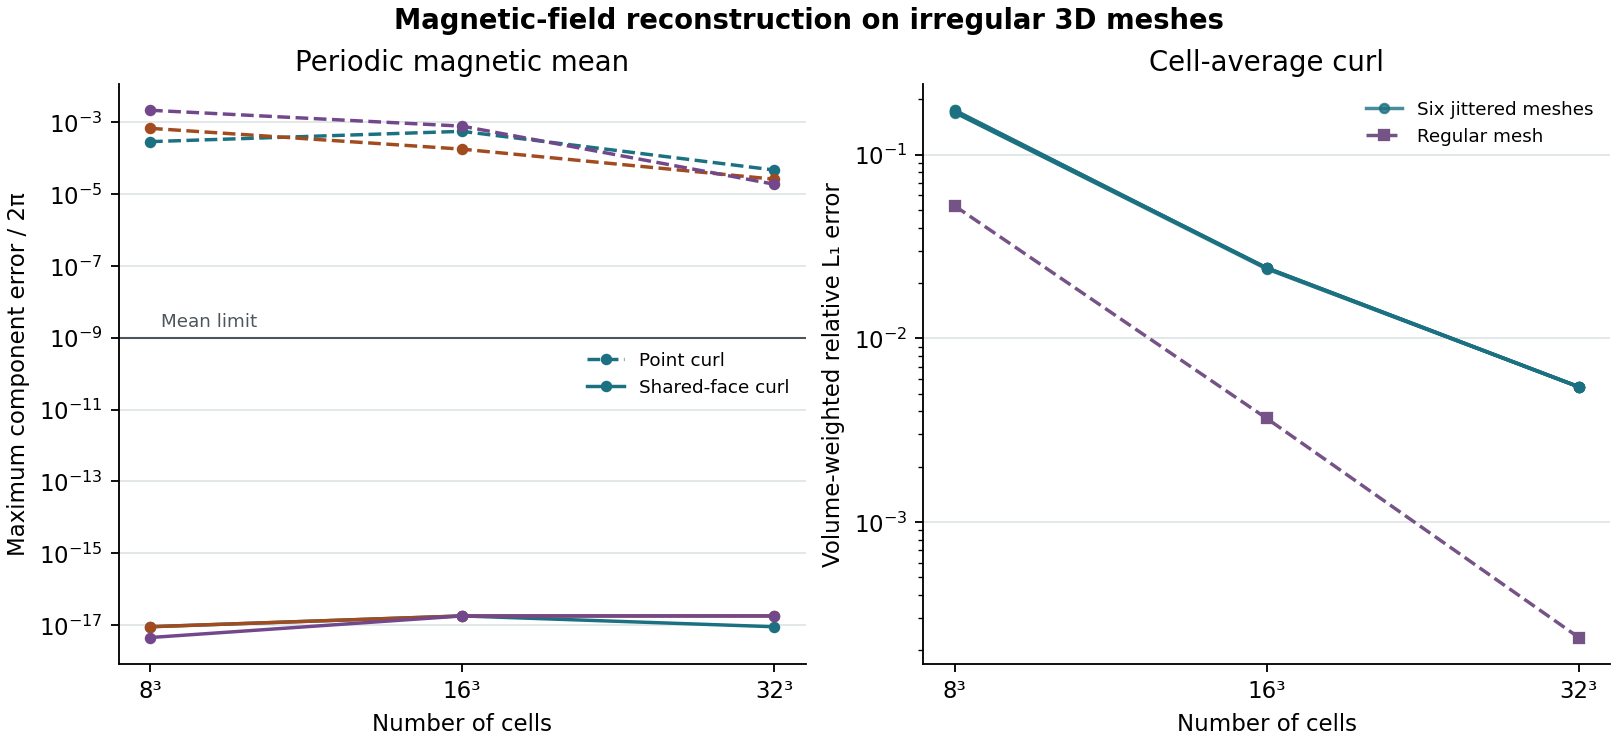
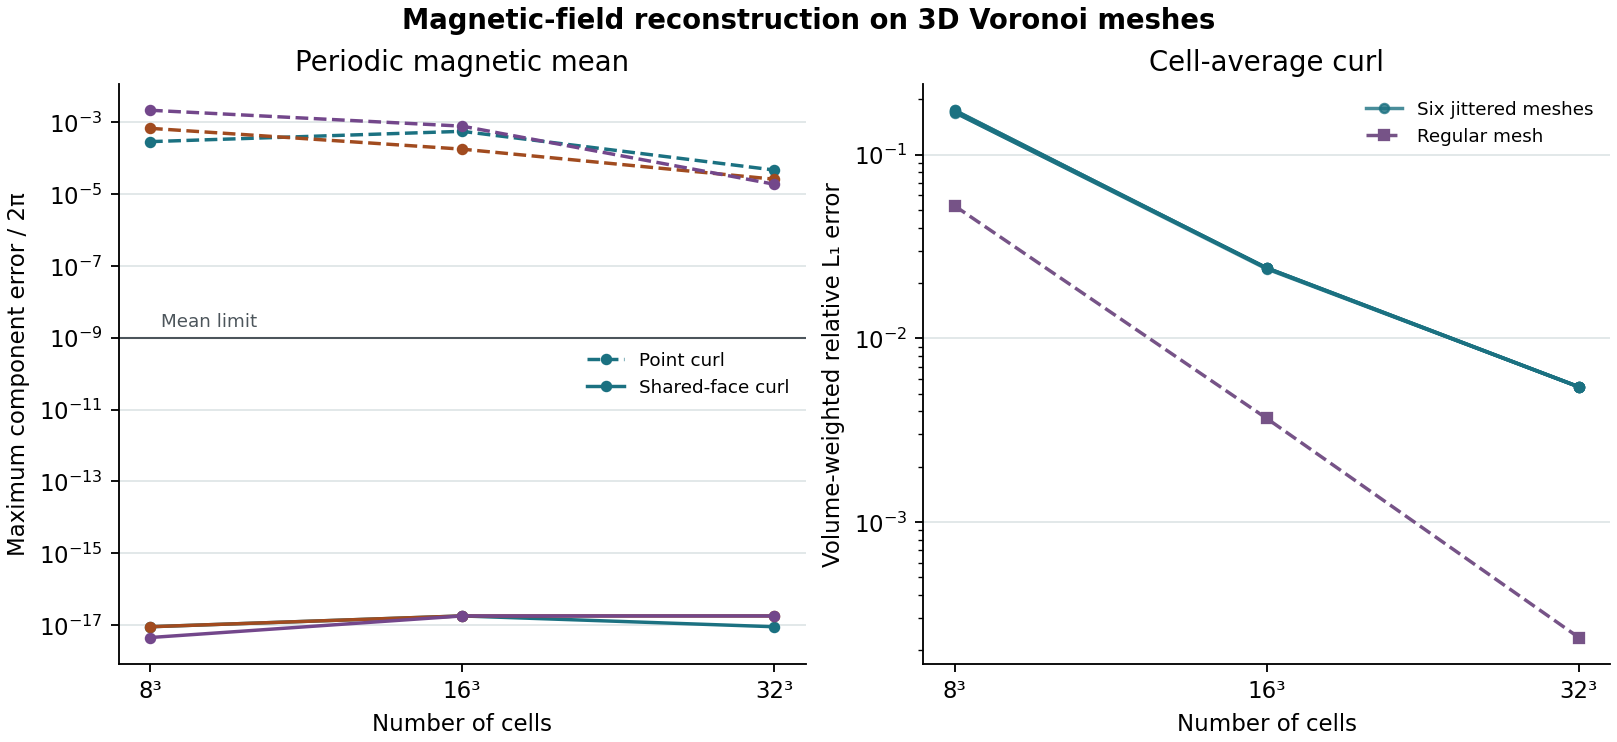
Document the cubic cancellation and independently replay moving face and sample derivatives

Changed region(s): [[0.2474, 0.0, 0.773, 0.062]]

diff --git a/scripts/review_m2c_shared_motion.py b/scripts/review_m2c_shared_motion.py
@@ -1,0 +1,137 @@
+"""Reconstruct moving-face differences and topology masks from actual native workflow outputs."""
+import argparse
+import json
+import math
+import re
+import struct
+from pathlib import Path
+
+import numpy as np
+from review_m2c_centroid import identity, read_packet, receipt, require
+
+GROUPS=("field","transported","area","center","cov0","cov1","cov2")
+POWERS=range(7,14)
+CONTROLS=("periodic_mean_adjoint_and_constants","rigid_self_faces_and_degenerate_nonrigid_vertex")
+
+
+def observations(text, power):
+    sides={k:[{}, {}, {}] for k in ("FACE","STENCIL")}
+    arrays={k:{} for k in GROUPS}
+    native={}
+    branch=quality=transport=None
+    for line in text.splitlines():
+        line=line.split(" ... ")[-1]
+        head,_,after=line.partition(" ")
+        if head in sides:
+            stage,i,words=after.split(" ",2);dest=sides[head][int(stage)]
+            require(int(i) not in dest,"duplicate support")
+            dest[int(i)]=words
+        elif head=="BRANCH":
+            exp,branch=after.split();require(int(exp)==power,"branch exponent")
+        elif head=="ENDPOINT":
+            key,i,k,lo,hi,rate=after.split();word=(int(i),int(k))
+            require(word not in arrays[key],"duplicate endpoint")
+            arrays[key][word]=tuple(map(float,(lo,hi,rate)))
+        elif head=="DIFF":
+            exp,key,err,spacing=after.split()
+            require(int(exp)==power and key not in native,"difference exponent")
+            native[key]=tuple(map(float,(err,spacing)))
+        elif head=="QUALITY":quality=float(after)
+        elif head=="TRANSPORT":transport=float(after)
+    require(all(len(x)==27 for x in sides["STENCIL"]) and all(len(x)>0 for x in sides["FACE"]),"retained geometry")
+    eligible=all(v[0]==v[1]==v[2] for v in sides.values())
+    require(branch==("matched" if eligible else "switched"),"observed branch and retained supports")
+    info=dict(denominator=2**power,matched=eligible,faces=[len(x) for x in sides["FACE"]])
+    if not eligible:
+        require(not native and not any(arrays.values()),"difference across topology switch")
+        return info,{}
+    require(set(native)==set(GROUPS) and quality is not None and quality>1e-10 and transport is not None and transport>1e-3,"smooth geometry and sample sensitivity")
+    derivatives={};stats={}
+    for key in GROUPS:
+        n=27 if key in ("field","transported") else info["faces"][1]
+        require(arrays[key].keys()=={(i,k) for i in range(n) for k in range(3)},key+" complete endpoint words")
+        rows=np.array([arrays[key][k] for k in sorted(arrays[key])])
+        require(np.isfinite(rows).all(),key+" finite words")
+        lo,hi,rate=rows.T
+        derivative=(hi-lo)*2**(power-1)
+        scale=max(1,float(np.max(abs(rate))))
+        err=float(np.max(abs(derivative-rate)))/scale
+        spacing=float(np.max(np.spacing(abs(lo))+np.spacing(abs(hi))))*2**(power-1)/scale
+        require(np.allclose((err,spacing),native[key],rtol=1e-12,atol=1e-18),key+" independent difference")
+        stats[key]=dict(error=err,endpoint_spacing=spacing,scale=scale,components=len(rate))
+        derivatives[key]=derivative
+    info.update(quantities=stats,min_vertex_determinant=quality,transported_sample_response=transport)
+    return info,derivatives
+
+
+def review(path):
+    f=read_packet(path);release=json.loads(f["release.json"])
+    source=release["source_revision"];build=json.loads(f["build/build.json"]);uid,pins,outs,_=receipt(f,"build",release["build_name"])
+    for k,pin in outs.items():require(identity(f["build/"+k.rsplit("/",1)[-1]])==pin,k)
+    binary=identity(f["build/face-motion-tests"])
+    require(build["source_revision"]==source and release["build_uuid"]==uid and
+            binary["sha256"]==build["executables"]["face-motion-tests"]["sha256"] and
+            build["runtime_sha256"]==identity(f["build/runtime.json"])["sha256"],"linked native build")
+    for i,step in enumerate(build["commands"]):
+        require(step["returncode"]==0 and identity(f[f"build/build-{i}.log"])["sha256"]==step["sha256"],"build steps")
+    require([c["argv"][1] for c in build["commands"]]==["fmt","clippy","build","test"],"build actions")
+    snapshot=json.loads(f["build/snapshot.json"])
+    require(identity(f["build/snapshot.json"])==pins["snapshot.json"] and snapshot["source_revision"]==source and
+            all(pins[n]["sha256"]==v for n,v in snapshot["upload_sha256"].items()),"original snapshot")
+    for k in (k for k in f if k.startswith("source/")):
+        require(identity(f[k])["sha256"]==snapshot["source_sha256"][k.removeprefix("source/")],k)
+    points=json.loads(f["source/docs/galaxy/fixtures/m2c_shared_face_static_v1.json"])["generators"]["jitter"]
+    words=f["source/crates/mhd-vector-pot/tests/fixtures/m2c_shared_jitter.bits"].decode().splitlines()
+    require(len(points)==27 and words==[" ".join(struct.pack(">d",float.fromhex(v)).hex() for v in xyz) for xyz in points],"all 81 fixture words")
+    sels={f"h{2**p}" for p in POWERS}|set(CONTROLS)
+    require(set(build["selectors"])==set(release["names"])==sels,"exact controls")
+    levels=[];diffs=[];ids=set();controls={}
+    for sel,name in sorted(release["names"].items()):
+        prefix="cases/"+sel;get=lambda n:f[prefix+"/"+n]
+        case_id,inputs,outputs,_=receipt(f,prefix,name)
+        require(case_id not in ids and inputs["face-motion-tests"]==binary,"unique leaf and binary")
+        ids.add(case_id)
+        for n,pin in outputs.items():require(identity(get(n))==pin,sel+" "+n)
+        spec=json.loads(get("case.json"));r=json.loads(get("result.json"))
+        require(inputs["case.json"]==identity(get("case.json")) and inputs["run_fv_motion.py"]==identity(f["run_fv_motion.py"]) and
+                r["passed"] and r["returncode"]==0 and r["selector"]==sel==spec["selector"] and r["sha256"]==binary["sha256"] and
+                r["stdout_sha256"]==outputs["stdout.txt"]["sha256"] and r["stderr_sha256"]==outputs["stderr.txt"]["sha256"] and
+                r["parent"]==spec["parent"] and r["parent"]["uuid"]==uid and r["parent"]["source_revision"]==source,"native test receipt")
+        text=get("stdout.txt").decode()
+        require("running 1 test\n" in text and "1 passed; 0 failed; 0 ignored; 0 measured; 8 filtered out" in text,"exact test")
+        if sel in CONTROLS:
+            controls[sel]=dict(uuid=case_id)
+            if sel==CONTROLS[0]:
+                triplet,=re.findall(r"IDENTITIES ([^\n]+)",text)
+                adj,constant,mean=map(float,triplet.split())
+                require(max(abs(adj),abs(constant),abs(mean))<=1e-12,"F9, gauge and transpose")
+                controls[sel].update(adjoint=adj,constant=constant,mean_rate=mean)
+        else:
+            power=int(sel[1:]).bit_length()-1
+            obs,d=observations(text,power);obs["uuid"]=case_id
+            levels.append(obs);diffs.append((obs["denominator"],d))
+    levels.sort(key=lambda r:r["denominator"]);diffs=dict(diffs)
+    require([x["denominator"] for x in levels]==[2**p for p in POWERS] and len(ids)==9,"all half-steps")
+    fine=[r for r in levels if r["matched"]];summary={}
+    if len(fine)>=3:
+        for k in GROUPS:
+            order=[math.log2(a["quantities"][k]["error"]/b["quantities"][k]["error"])
+                   for a,b in zip(fine,fine[1:]) if a["denominator"]*2==b["denominator"] and
+                   min(a["quantities"][k]["error"], b["quantities"][k]["error"])>
+                   max(a["quantities"][k]["endpoint_spacing"],b["quantities"][k]["endpoint_spacing"])]
+            end=fine[-1];n=end["denominator"];z=end["quantities"][k];uncertainty=None
+            if n//2 in diffs and n//4 in diffs and k in diffs[n//2] and k in diffs[n//4]:
+                r1=(4*diffs[n][k]-diffs[n//2][k])/3
+                r2=(4*diffs[n//2][k]-diffs[n//4][k])/3
+                uncertainty=float(np.max(abs(r1-r2)))/z["scale"]+z["endpoint_spacing"]
+            summary[k]=dict(orders=order,finest=z["error"],reference_disagreement=uncertainty,
+                            passed=bool(n==8192 and len(order)>=2 and min(order)>=1.8 and z["error"]<=1e-7 and
+                                        uncertainty is not None and uncertainty<=1e-9))
+    return dict(schema="openmhd.m2c.shared-face-smooth-motion-review.v1",source_revision=source,build_uuid=uid,
+                levels=levels,controls=controls,quantities=summary,
+                smooth_case_passed=bool(len(summary)==len(GROUPS) and all(row["passed"] for row in summary.values())))
+
+
+if __name__=="__main__":
+    p=argparse.ArgumentParser(description=__doc__);p.add_argument("packet",type=Path);p.add_argument("output",type=Path)
+    args=p.parse_args();args.output.write_text(json.dumps(review(args.packet),indent=2,allow_nan=False)+"\n")

diff --git a/scripts/plot_m2c_shared_face.py b/scripts/plot_m2c_shared_face.py
@@ -10,7 +10,6 @@ ROOT=Path(__file__).resolve().parents[1]
 DATA=ROOT/"docs/galaxy/results/m2c_moving"
 COLORS=("#1b7181","#a14b1f","#73478b")
 FAMILIES=("original","fresh-a","fresh-b")
-LABELS=("Original jitter","Fresh jitter A","Fresh jitter B")
 
 
 def main(output, summary):
@@ -18,7 +17,7 @@ def main(output, summary):
     shared=json.loads(summary.read_bytes())["spatial_ladders"]
     fig,(left,right)=plt.subplots(1,2,figsize=(9.8,4.5),layout="constrained")
     x=[8,16,32]
-    for ix,(fam,label,color) in enumerate(zip(FAMILIES,LABELS,COLORS)):
+    for ix,(fam,color) in enumerate(zip(FAMILIES,COLORS)):
         old=sorted((r["data"] for r in previous if r["data"]["case"][0]==fam and r["data"]["case"][2]=="mean"),key=lambda r:r["cells"])
         new,=[l for l in shared if (l["mesh"],l["mean"])==(fam,"mean")]
         left.plot(x,[r["scaled_max_component"] for r in old],"o--",color=color,ms=4,label="Point curl" if ix==0 else None)
@@ -40,7 +39,7 @@ def main(output, summary):
         ax.set_xticks([8,16,32],["8³","16³","32³"]);ax.set_xlabel("Number of cells")
         ax.grid(axis="y",which="major",color="#dce3e4",lw=.7)
         ax.spines[["top","right"]].set_visible(False)
-    fig.suptitle("Magnetic-field reconstruction on irregular 3D meshes",fontweight="semibold")
+    fig.suptitle("Magnetic-field reconstruction on 3D Voronoi meshes",fontweight="semibold")
     fig.savefig(output,dpi=165,facecolor="white");plt.close(fig)
 
 

diff --git a/docs/galaxy/M2C_MOVING_CURL_RESULTS.md b/docs/galaxy/M2C_MOVING_CURL_RESULTS.md
@@ -37,10 +37,30 @@ All 42 REANA spatial cases used the same native Rust executable, with seven peri
 | Fresh jitter A | 0.17304 | 0.02418 | 0.005446 | 2.495 |
 | Fresh jitter B | 0.16982 | 0.02384 | 0.005448 | 2.481 |
 
+The left panel follows the three original M2b jitter families at the nonzero imposed mean. The right panel includes all six irregular families and the regular cube.
+
 ![Measured normalized magnetic mean and spatial error](../images/m2c_moving/shared-face-field.png)
 
 The volume-weighted RMS of each independent divergence decreased on every irregular ladder. On the regular equal-wave grid, the zero-mean cell-fit RMS went from 1.71×10⁻¹⁴ to 2.78×10⁻¹⁴ to 9.58×10⁻¹⁴. The arithmetic-face RMS went from 1.16×10⁻¹⁴ to 2.73×10⁻¹⁴ to 9.67×10⁻¹⁴. Both regular ladders therefore failed the registered strict-decrease rule. The limited-face RMS decreased. The largest absolute volume-weighted signed arithmetic-face divergence over the full campaign was 5.28×10⁻¹⁶.
 
+On a uniform cube the independent cell-fit and arithmetic-face derivatives have the centered symbol i sin(kₐh)/h. Coordinate exchange and axis reflection are symmetries of the full quadratic fit and of the shared-face integration. For a Fourier component with wave vector (k, ±k, 0), those symmetries give equal or opposite x and y curl-derivative symbols. The two mixed contributions to the divergence cancel in exact arithmetic. The original potential is a sum of these modes and their cyclic permutations. As a diagnostic comparison, every recorded residual from these two operators was below 0.53% of the earlier M2b cube roundoff allowance. The M2c verdict above uses the original strict-decrease rule. [Earlier bound and assumptions](M2B_CLOSURE_PROTOCOL.md).
+
 The three separately registered unequal-wave cube controls broke the x–y exchange symmetry. The cell-fit and arithmetic-face RMS then each decreased from 3.10836 to 2.20475 to 0.70277. An independent arithmetic flux reconstructed from the returned field verified the native readings. This measures sensitivity to a resolvable signal. The original CF-SPACE verdict stays open. [Unequal-wave records](results/m2c_moving/shared-face/mixed-cube.json) · [Case measurements](results/m2c_moving/shared-face/mixed-cube.tar.gz).
 
 The three small native dense-map cases checked every real-owner input column against a separate weighted fit and triangle quadrature. The maximum difference was 8.22×10⁻¹⁴ against the 10⁻¹² identity budget. The large static meshes used imported shared metrics. Two original 32³ workflows on fresh jitter B rejected a face of area 1.67×10⁻¹⁸. At its rounded vertices the normalized covariance leaked 7.87×10⁻⁹ out of the bisector plane. The exporter integrated the covariance in that plane after checking the vertices against a coordinate-roundoff bound. Both original failures and both passing replacement workflows are identified in the packet. The Rust scientific binary and its 10⁻⁹ tangency limit were identical in all four workflows. [Conditional plane integration](../../reana/m2c_shared_face_spatial.py) · [Native map measurements and build](results/m2c_moving/shared-face/build-map.tar.gz).
+
+The initial example build failed on an incompatible Rust error type. The successful replacement used a typed collection of the same linear fits and passed formatting, strict workspace Clippy and release compilation before scientific release. [Original build failure](results/m2c_moving/shared-face/initial-build-failure.tar.gz).
+
+### Moving polygon and magnetic-field derivative
+
+Let **b** be the cell-average curl perturbation and **S** the canonical oriented face area vector. For fixed real-owner potential samples, the implementation differentiates each shared face exchange once. With incidence sign σ, its cell formula is
+
+$$
+V_i \, \dot{\mathbf b}_i =
+\sum_{f\in i}\sigma_{if}
+\left(\dot{\mathbf S}_f \times \overline{\mathbf A}_f
++ \mathbf S_f \times \dot{\overline{\mathbf A}}_f\right)
+- \dot V_i\, \mathbf b_i .
+$$
+
+The constant harmonic magnetic field is added separately. The face derivative includes the motion of the face centroid, the surface covariance, the cell centroids, the fit scale and the least-squares weights. On a simple Voronoi vertex, differentiating its three supporting bisectors gives its velocity. The code differentiates the triangle area, first moment and second moment using those velocities. A common translation handles persistent rigid degeneracies exactly. The nonrigid routine returns a typed error on a multiply supported vertex. [Native polygon rates](../../crates/moving-mesh/src/three_d/polygon_motion.rs) · [Shared-face curl derivative](../../crates/mhd-vector-pot/src/operators3/shared_face_motion.rs).

diff --git a/README.md b/README.md
@@ -181,8 +181,8 @@ M2a closed the static geometry checks, and M2b closed the static spatial operato
 M2c now computes how quickly each cell's volume changes and how its centroid moves.
 Both rates showed second-order convergence on a rotating 3D Voronoi face across six axis
 permutations. The moving point-curl derivative also converged at second order. The point curl
-failed the initial magnetic-mean test on jittered meshes. Its opt-in shared-face
-successor preserved that mean to 1.77×10⁻¹⁷ and gave orders 2.48–2.50 on six
+failed the initial magnetic-mean test on jittered meshes. The experimental shared-face
+candidate preserved that mean to 1.77×10⁻¹⁷ and gave orders 2.48–2.50 on six
 irregular mesh families. Two regular-grid divergence diagnostics failed the
 strict-decrease rule near roundoff, so moving-MHD acceptance remains open.
 [Measured fields, divergence and convergence plot](docs/galaxy/M2C_MOVING_CURL_RESULTS.md#cell-average-field-and-divergence).

diff --git a/docs/CODEX_HANDOFF.md b/docs/CODEX_HANDOFF.md
@@ -11,8 +11,7 @@ The point-curl derivative passed 10 independent REANA cases. All 18 jittered-fie
 The Rust face-rate and cell-moment operator passed S-CENTROID on the registered
 rotating-face, rigid, periodic and error controls. All 50 selections ran in
 separate REANA workflows. A subsequent reduction checked the raw endpoint
-geometries and rates against closed-form column integrals. The next operator
-is S-CDOT. The finite-step geometric conservation and topology gates remain open.
+geometries and rates against closed-form column integrals. The finite-step geometric conservation and topology gates remain open.
 [Interface, figure and measured convergence](galaxy/M2C_CENTROID_RATES.md).
 
 ## M2b checkpoint (2026-11-27, static 3D operators accepted)
